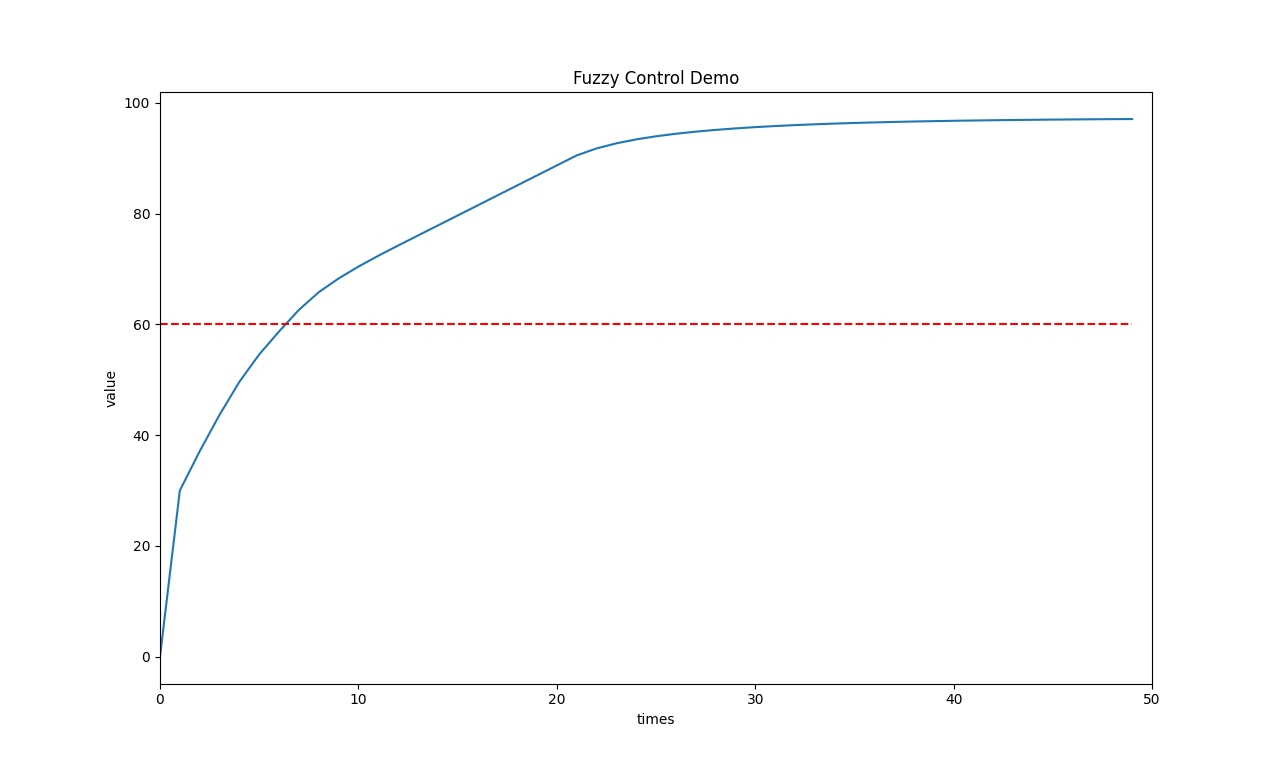
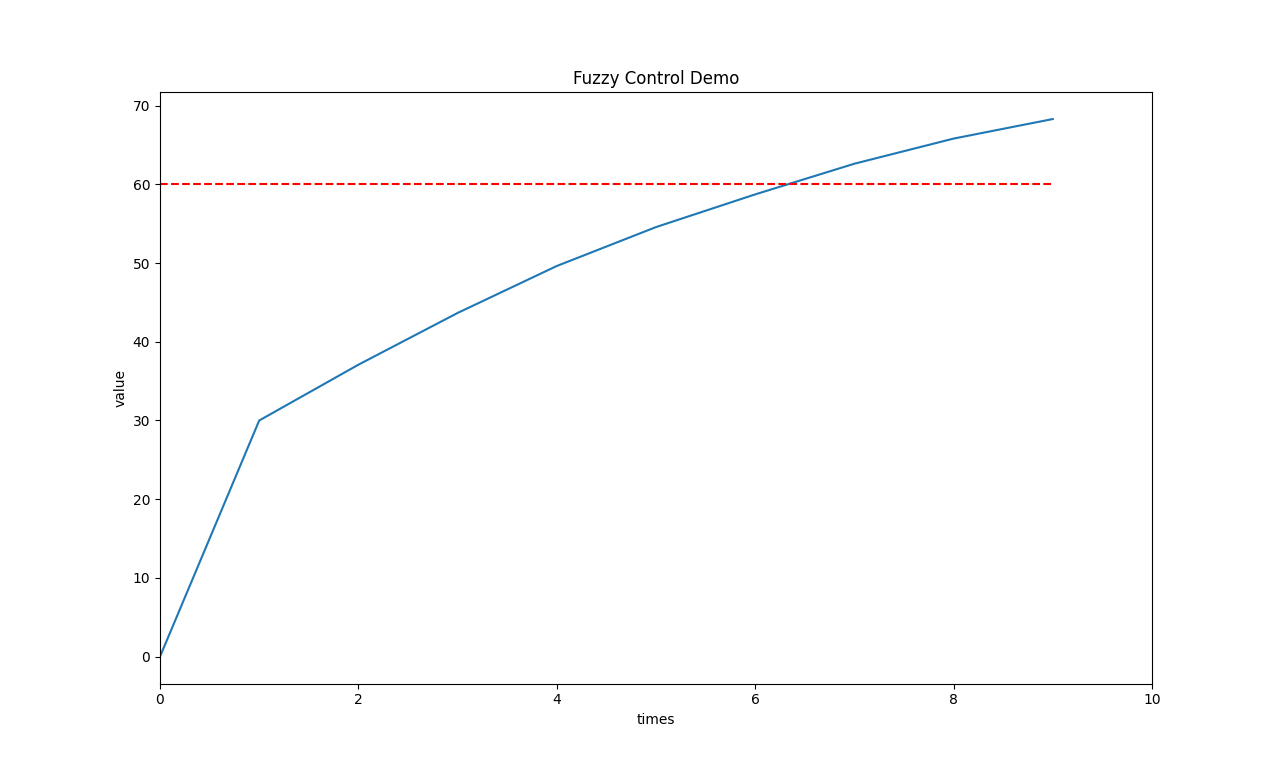
feat: update the plot configs and logic

diff --git a/src/fuzzy_logic.cc b/src/fuzzy_logic.cc
@@ -161,12 +161,15 @@ void FuzzyLogic::getInfo(void) {
 #include "matplotlibcpp.h"
 namespace plt = matplotlibcpp;
 
-void Fuzzification::plotMembershipFunctions(void) {
+void Fuzzification::plotMembershipFunctions(bool show) {
     int n = 500;
     std::vector<double> x(n), y(n), w(n, 0);
 
-    plt::figure();
-    plt::figure_size(1280, 768);
+    // determine the figure config
+    if (!show) {
+        plt::figure_size(1280, 768);
+    }
+
     size_t discourse_size = membership_->getDiscourseSize();
     for (size_t id = 0; id < discourse_size; id++) {
         const auto params = membership_->getParamSet(id);
@@ -183,27 +186,32 @@ void Fuzzification::plotMembershipFunctions(void) {
     plt::xlabel("input/output");
     plt::xlim(-3.0, 3.0);
 
-    switch (membership_->getType()) {
-        case membershipType::Triangle:
-            plt::title("Membership Functions: Triangle");
-            plt::save("assets/" + getName() + "_membership_triangle.png");
-            break;
-        case membershipType::Trapezoid:
-            plt::title("Membership Functions: Trapezoid");
-            plt::save("assets/" + getName() + "_membership_trapezoid.png");
-            break;
-        case membershipType::Gaussian:
-            plt::title("Membership Functions: Gaussian");
-            plt::save("assets/" + getName() + "_membership_gaussian.png");
-            break;
-        case membershipType::None:
-            /* fall through */
-        default:
-            throw std::invalid_argument("[membership error] set membership type first");
+    if (show) {
+        plt::show();
+    } else {
+        switch (membership_->getType()) {
+            case membershipType::Triangle:
+                plt::title("Membership Functions: Triangle");
+                plt::save("assets/" + getName() + "_membership_triangle.png");
+                break;
+            case membershipType::Trapezoid:
+                plt::title("Membership Functions: Trapezoid");
+                plt::save("assets/" + getName() + "_membership_trapezoid.png");
+                break;
+            case membershipType::Gaussian:
+                plt::title("Membership Functions: Gaussian");
+                plt::save("assets/" + getName() + "_membership_gaussian.png");
+                break;
+            case membershipType::None:
+                /* fall through */
+            default:
+                throw std::invalid_argument("[membership error] set membership type first");
+        }
     }
+    plt::close();
 }
 
-void FuzzyLogic::plotFuzzyControlSurface(void) {
+void FuzzyLogic::plotFuzzyControlSurface(bool show) {
     std::vector<std::vector<double>> x, y, z;
     double e_discourse_bound = static_cast<double>(e->membership_->getDiscourseSize() / 2);
     double ec_discourse_bound = static_cast<double>(ec->membership_->getDiscourseSize() / 2);
@@ -222,18 +230,25 @@ void FuzzyLogic::plotFuzzyControlSurface(void) {
         z.push_back(z_row);
     }
 
+    // determine the figure config
+    if (!show) {
+        plt::figure_size(1280, 768);
+    }
     // elevation=18, azimuth=-133
-    long id = plt::figure();
-    plt::plot_surface(x, y, z, {{"linewidth", "2"}, {"antialiased", "True"}}, id);
+    plt::plot_surface(x, y, z, {{"linewidth", "2"}, {"antialiased", "True"}});
     plt::xlabel("e");
     plt::ylabel("ec");
     plt::set_zlabel("u");
     plt::title("Fuzzy Control Surface");
-    plt::show();
-    // plt::save("assets/fuzzy_control_surface.png");
+    if (show) {
+        plt::show();
+    } else {
+        plt::save("assets/fuzzy_control_surface.png");
+    }
+    plt::close();
 }
 
-void FuzzyLogic::plotControl(void) {
+void FuzzyLogic::plotControl(bool show) {
     size_t n = control_plot_.size();
     std::vector<double> x(n), y(n), w(n);
 
@@ -243,15 +258,22 @@ void FuzzyLogic::plotControl(void) {
         w.at(i) = control_plot_.at(i).target;
     }
 
-    plt::figure();
-    plt::figure_size(1280, 768);
+    // determine the figure config
+    if (!show) {
+        plt::figure_size(1280, 768);
+    }
     plt::plot(x, y);
     plt::plot(x, w,"r--");
     plt::ylabel("value");
     plt::xlabel("times");
     plt::xlim((size_t)0, n);
     plt::title("Fuzzy Control Demo");
-    plt::save("assets/fuzzy_control_demo.png");
+    if (show) {
+        plt::show();
+    } else {
+        plt::save("assets/fuzzy_control_demo.png");
+    }
+    plt::close();
 }
 
 #endif

diff --git a/src/demo.cc b/src/demo.cc
@@ -68,7 +68,7 @@ int main (int argc,char *argv[]) {
 
     fuzzy.setFuzzyRules(rule_table);
 
-    fuzzy.plotFuzzyControlSurface();
+    fuzzy.plotFuzzyControlSurface(true);
     fuzzy.e->plotMembershipFunctions();
     fuzzy.ec->plotMembershipFunctions();
     fuzzy.u->plotMembershipFunctions();
@@ -81,7 +81,7 @@ int main (int argc,char *argv[]) {
     control.actual = 0.0;
 
     dbgmsgln("Times    Target    Actual");
-    const int times = 50;
+    const int times = 10;
     for (int i = 0; i < times; i++) {
         control.actual += fuzzy.algo(control);
         dbgmsgln("%04d     %.3f    %.3f", i, control.target, control.actual);

diff --git a/include/fuzzy/fuzzy_logic.h b/include/fuzzy/fuzzy_logic.h
@@ -43,7 +43,7 @@ class Fuzzification {
         const std::string& getName(void);
 
 #if FC_USE_MATPLOTLIB
-        void plotMembershipFunctions(void);
+        void plotMembershipFunctions(bool show = false);
 #endif
 
         std::unique_ptr<Membership> membership_;
@@ -77,8 +77,8 @@ class FuzzyLogic {
         void getInfo(void);
 
 #if FC_USE_MATPLOTLIB
-        void plotFuzzyControlSurface(void);
-        void plotControl(void);
+        void plotFuzzyControlSurface(bool show = false);
+        void plotControl(bool show = false);
         std::vector<Control_t> control_plot_;
 #endif
 

diff --git a/library/matplotlib-cpp/matplotlibcpp.h b/library/matplotlib-cpp/matplotlibcpp.h
@@ -2634,7 +2634,7 @@ inline void rcparams(const std::map<std::string, std::string>& keywords = {}) {
           PyDict_SetItemString(kwargs, it->first.c_str(), PyLong_FromLong(std::stoi(it->second.c_str())));
         else PyDict_SetItemString(kwargs, it->first.c_str(), PyString_FromString(it->second.c_str()));
     }
-    
+
     PyObject * update = PyObject_GetAttrString(detail::_interpreter::get().s_python_function_rcparams, "update");
     PyObject * res = PyObject_Call(update, args, kwargs);
     if(!res) throw std::runtime_error("Call to rcParams.update() failed.");
